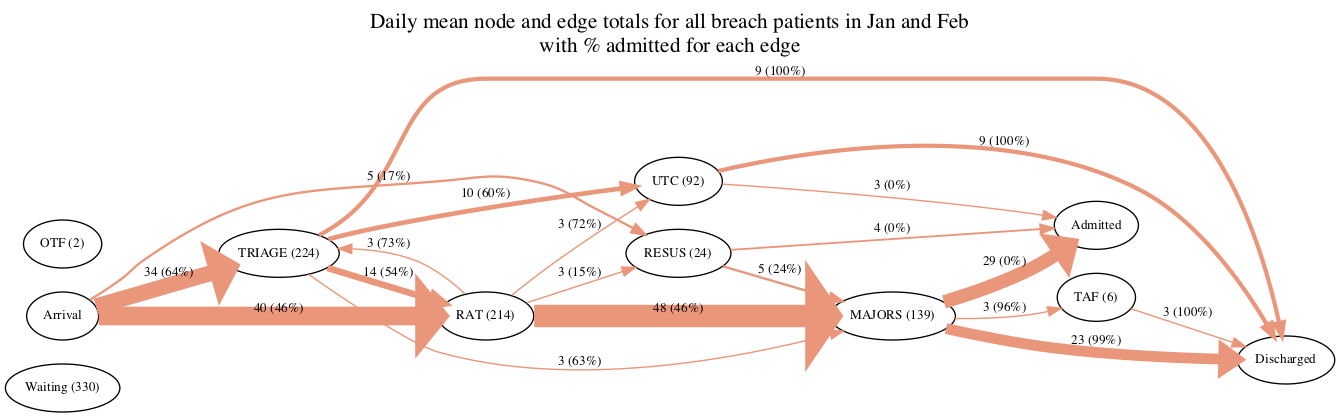
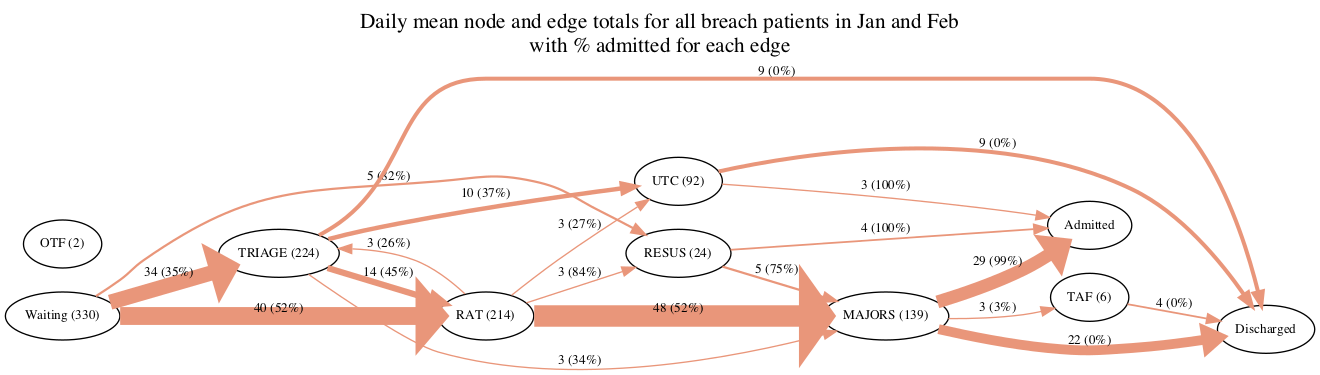
Network charts without OTF

diff --git a/flow-mapping/code/create-viz-from-edge-list.py b/flow-mapping/code/create-viz-from-edge-list.py
@@ -26,7 +26,7 @@ node_label_num = ' ('+node_stats['num_pat_mean'].astype(int).copy().astype(str)+
 node_stats['node_label'] = node_stats['room4_new'].str.cat(node_label_num)
 
 # create edge label
-edge_label_num = edgelist_stats['weight_mean'].astype(int).copy().astype(str)+' ('+(edgelist_stats['pct_disc_mean']*100).astype(int).copy().astype(str)+'%)'
+edge_label_num = edgelist_stats['weight_mean'].astype(int).copy().astype(str)+' ('+((1-edgelist_stats['pct_disc_mean'])*100).astype(int).copy().astype(str)+'%)'
 edgelist_stats['edge_label'] = edge_label_num
 
 # initialise graph
@@ -70,14 +70,14 @@ for index, row in edgelist_stats[edgelist_stats['weight_mean']>1].iterrows():
 #s.add_node('RAT')
 
 #G.draw("flow-mapping/media/Jan-Feb-all-wtgt3.png", prog='dot')
-G.draw("flow-mapping/media/Jan-Feb-all.png", prog='dot')
+G.draw("flow-mapping/media/JanFeb_all_2020-07-28.png", prog='dot')
 
 # Create graph for breach patients
 # ================================
 
 # read data
 
-filename = '/Users/zellaking/GitHubRepos/EDcrowding/flow-mapping/data-output/edgelist_stats_JanFeb_breach_2020-07-23.csv'
+filename = '/Users/zellaking/GitHubRepos/EDcrowding/flow-mapping/data-output/edgelist_stats_JanFeb_breach_2020-07-27.csv'
 edgelist_stats_JanFeb_breach = pd.read_csv(filename, sep =',', dtype = {"weight_mean" : "float64"})
 
 # cheat workaround to get mean to round
@@ -88,7 +88,7 @@ node_label_num_breach = ' ('+node_stats['num_pat_mean_breach'].astype(int).copy(
 node_stats['node_label_breach'] = node_stats['room4_new'].str.cat(node_label_num_breach)
 
 # create edge label
-edge_label_num_breach = edgelist_stats_JanFeb_breach['weight_mean'].astype(int).copy().astype(str)+' ('+(edgelist_stats_JanFeb_breach['pct_disc_mean']*100).astype(int).copy().astype(str)+'%)'
+edge_label_num_breach = edgelist_stats_JanFeb_breach['weight_mean'].astype(int).copy().astype(str)+' ('+((1-edgelist_stats_JanFeb_breach['pct_disc_mean'])*100).astype(int).copy().astype(str)+'%)'
 edgelist_stats_JanFeb_breach['edge_label'] = edge_label_num_breach
 
 
@@ -109,7 +109,7 @@ for index, row in node_stats.iterrows():
     # note this if statement is a workaround because Admitted and Discharged node numbers are wrong
     if row['room4_new'] != 'Discharged' and  row['room4_new'] != 'Admitted':
         G.add_node(row['room4_new'],
-                   label = row['node_label']
+                   label = row['node_label_breach']
                    )
     else:
         G.add_node(row['room4_new'],
@@ -132,7 +132,7 @@ for index, row in edgelist_stats_JanFeb_breach[edgelist_stats_JanFeb_breach['wei
                    penwidth=100 * row['weight_mean'] / sum(edgelist_stats_JanFeb_breach['weight_mean'])
                    )
 
-G.draw("flow-mapping/media/temp.png", prog='dot')
+G.draw("flow-mapping/media/JanFeb_breach_2020-07-28.png", prog='dot')
 
 
 
